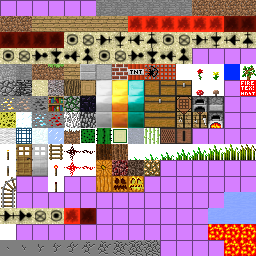
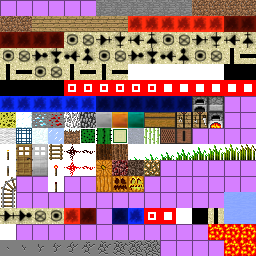
texture for new blocks

Changed region(s): [[0.0, 0.1875, 1.0, 0.4375], [0.4375, 0.8125, 0.875, 0.875]]

diff --git a/arrange-terrain.py b/arrange-terrain.py
@@ -79,16 +79,64 @@ def pack(x, y=None, z=None):
         rotate((slot + 5) % 16, (slot + 5) // 16)
     slot += 6
 
+copy((2, 5), (13, 13))
+
+# diode
+for i in range(6, 10):
+    for j in range(16):
+        pixels[13 * 16 + i][13 * 16 + j] = (0, 0, 0)
+
+# display
+for i in range(16):
+    for j in range(16):
+        pixels[12 * 16 + i][13 * 16 + j] = (0, 0, 0)
+        pixels[11 * 16 + i][13 * 16 + j] = (255, 255, 255)
+
+# switch
+for i in range(16):
+    for j in range(16):
+        pixels[10 * 16 + i][13 * 16 + j] = (255, 0, 0)
+        pixels[9 * 16 + i][13 * 16 + j] = (255, 0, 0)
+for i in range(8):
+    for j in range(8):
+        pixels[10 * 16 + i + 4][13 * 16 + j + 4] = (255, 255, 255)
+        pixels[9 * 16 + i + 4][13 * 16 + j + 4] = (255, 255, 255)
+for i in range(4):
+    for j in range(4):
+        pixels[9 * 16 + i + 6][13 * 16 + j + 6] = (255, 0, 0)
+
+# bluestone
+for i in range(16):
+    for j in range(16):
+        x = pixels[4 * 16 + i][13 * 16 + j]
+        pixels[8 * 16 + i][13 * 16 + j] = (x[2], x[1], x[0])
+
+        x = pixels[5 * 16 + i][13 * 16 + j]
+        pixels[7 * 16 + i][13 * 16 + j] = (x[2], x[1], x[0])
+
+
 pack(1) # stone
 pack(2) # dirt
 pack(4) # wood
 pack(9 * 16 + 4) # active redstone
 pack(9 * 16 + 5) # inactive redstone
 
-pack(9 * 16 + 3, 9 * 16 + 2, 9 * 16 + 0) # active diode gate
-pack(9 * 16 + 3, 9 * 16 + 2, 9 * 16 + 0) # diode gate
+pack(9 * 16 + 3, 9 * 16 + 2, 9 * 16 + 0) # active delay gate
+pack(9 * 16 + 3, 9 * 16 + 2, 9 * 16 + 0) # delay gate
 pack(9 * 16 + 3, 9 * 16 + 2, 9 * 16 + 1) # active not gate
 pack(9 * 16 + 3, 9 * 16 + 2, 9 * 16 + 1) # not gate
+
+pack(9 * 16 + 3, 9 * 16 + 2, 9 * 16 + 13) # active diode
+pack(9 * 16 + 3, 9 * 16 + 2, 9 * 16 + 13) # diode
+
+pack(9 * 16 + 11) # active display
+pack(9 * 16 + 12) # display
+
+pack(9 * 16 + 9) # active switch
+pack(9 * 16 + 10) # switch
+
+pack(9 * 16 + 8) # active bluestone
+pack(9 * 16 + 7) # inactive bluestone
 
 for i in range(N):
     for j in range(N):
